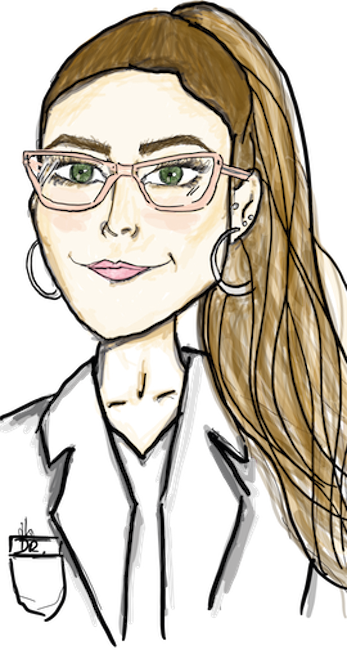
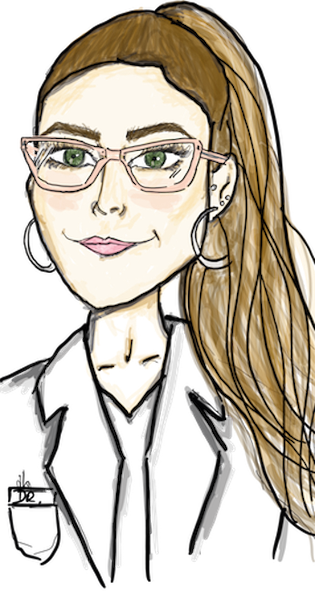
fix back home page image

Changed region(s): [[0.4, 0.2741, 0.4286, 0.3046], [0.0857, 0.4264, 0.1143, 0.4569]]

diff --git a/content/_index.md b/content/_index.md
@@ -5,7 +5,7 @@ action_type: text
 description: I am originally from Ecuador and USA living in Melbourne, Australia since 2014. As a molecular epidemiologist with expertise in population genetics, epidemiology, and bioinformatics, I'm interested in combining these approaches to population-based studies of infectious diseases, particularly malaria and more recently COVID-19. I am also an avid R user and am passionate about open science and the development of digital tools for research.
 image_left: false
 images:
-  - img/caricatura.JPG
+  - img/caricatura_transparente.png
 show_action_link: true
 show_social_links: true
 subtitle: Postdoctoral Research Scientist | President @ R-Ladies Melbourne
